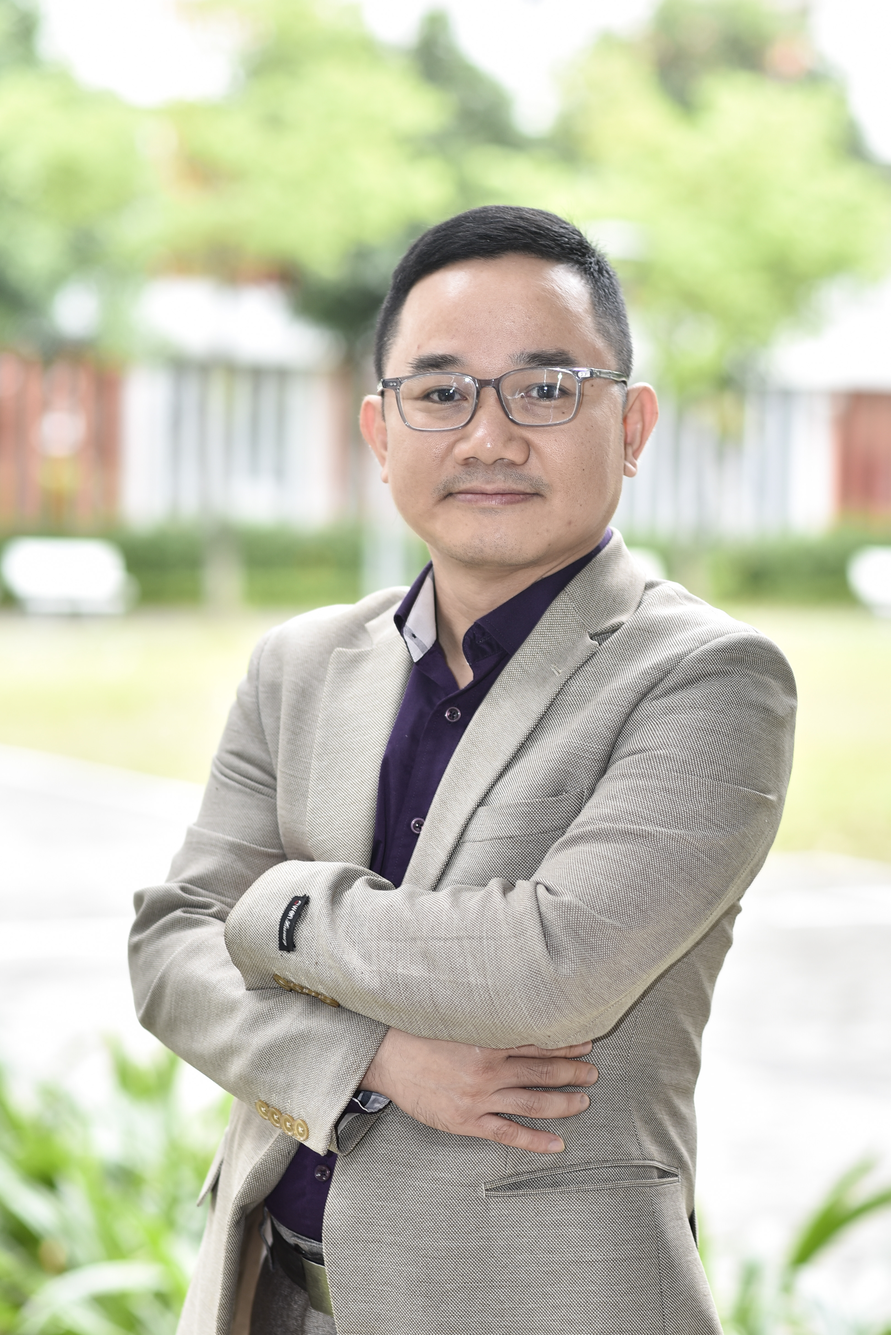
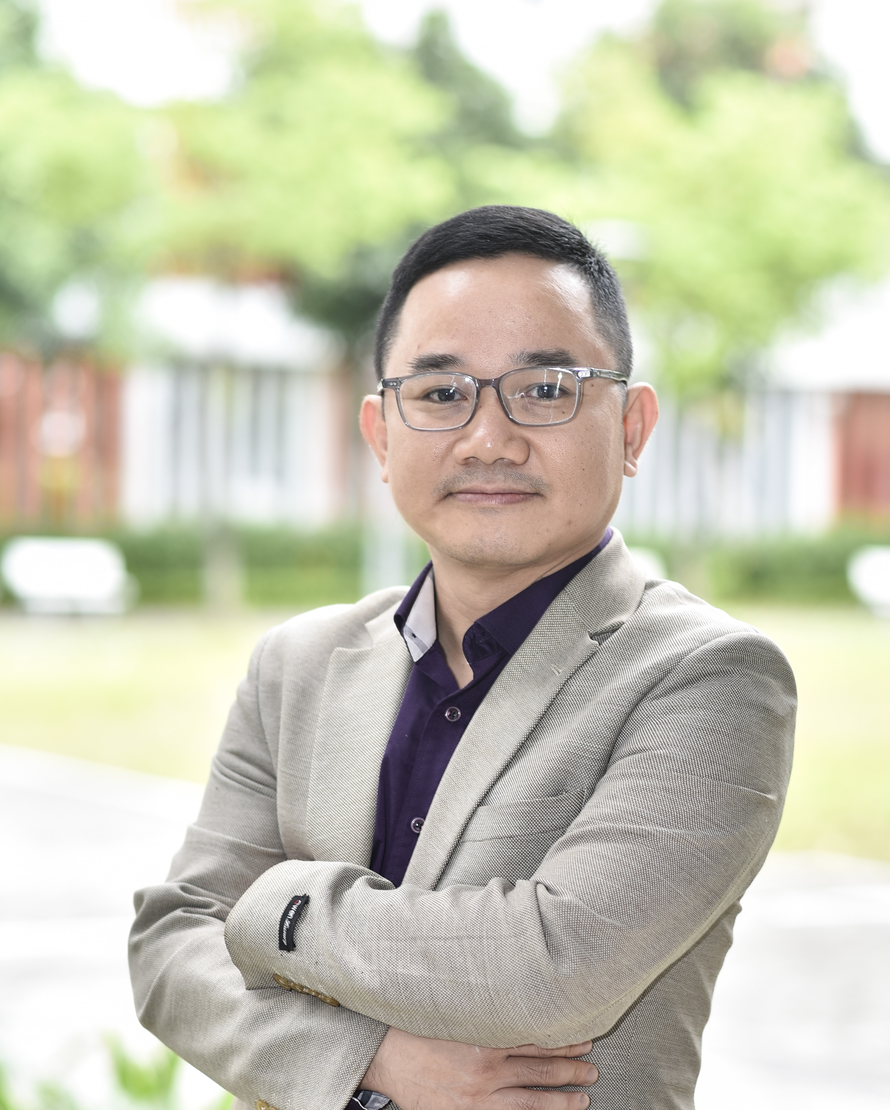
6 commit

diff --git a/index.html b/index.html
@@ -126,7 +126,7 @@
                  href="#"
                  data-name="Prof. Duc-Tan Tran"
                  data-role="Keynote • Phenikaa University"
-                 data-img="assets/imgs/prof1.JPG"
+                 data-img="assets/imgs/profbao.jpg"
                  data-bio='
                    <p><strong>Duc-Tan Tran</strong> is currently a <strong>Professor and Dean</strong> at the Faculty of Electrical and Electronic Engineering, <strong>Phenikaa University</strong>. Prior to joining Phenikaa University, he was an <strong>Associate Professor</strong> at the Faculty of Electronics and Telecommunication, <strong>VNU University of Engineering and Technology (VNU-UET)</strong>, and served as <strong>Vice Dean</strong> from <em>Aug 2016 – May 2019</em>.</p>
                    <p>He has authored <strong>150+ research papers</strong> and received multiple distinctions, including:</p>
@@ -139,7 +139,7 @@
                    <p><strong>Research interests</strong>: representation, processing, analysis, and communication of information embedded in signals and datasets.</p>
                    <p>Prof. Tran actively serves the community as <strong>TPC Co-chair</strong>, <strong>technical program committee member</strong>, <strong>track chair</strong>, <strong>session chair</strong>, and <strong>reviewer</strong> for various international conferences and journals.</p>
                  '>
-                <img src="assets/imgs/prof1.JPG" alt="Ảnh Prof. Duc-Tan Tran">
+                <img src="assets/imgs/profbao.jpg" alt="Ảnh Prof. Duc-Tan Tran">
               </a>
             
               <div class="body">
@@ -162,7 +162,7 @@
                  href="#"
                  data-name="Prof. Duc-Tan Tran"
                  data-role="Keynote • Phenikaa University"
-                 data-img="assets/imgs/prof1.JPG"
+                 data-img="assets/imgs/tsha.jpg"
                  data-bio='
                    <p><strong>Duc-Tan Tran</strong> is currently a <strong>Professor and Dean</strong> at the Faculty of Electrical and Electronic Engineering, <strong>Phenikaa University</strong>. Prior to joining Phenikaa University, he was an <strong>Associate Professor</strong> at the Faculty of Electronics and Telecommunication, <strong>VNU University of Engineering and Technology (VNU-UET)</strong>, and served as <strong>Vice Dean</strong> from <em>Aug 2016 – May 2019</em>.</p>
                    <p>He has authored <strong>150+ research papers</strong> and received multiple distinctions, including:</p>
@@ -175,7 +175,7 @@
                    <p><strong>Research interests</strong>: representation, processing, analysis, and communication of information embedded in signals and datasets.</p>
                    <p>Prof. Tran actively serves the community as <strong>TPC Co-chair</strong>, <strong>technical program committee member</strong>, <strong>track chair</strong>, <strong>session chair</strong>, and <strong>reviewer</strong> for various international conferences and journals.</p>
                  '>
-                <img src="assets/imgs/prof1.JPG" alt="Ảnh Prof. Duc-Tan Tran">
+                <img src="assets/imgs/tsha.jpg" alt="Ảnh Prof. Duc-Tan Tran">
               </a>
             
               <div class="body">
@@ -198,7 +198,7 @@
                  href="#"
                  data-name="Prof. Duc-Tan Tran"
                  data-role="Keynote • Phenikaa University"
-                 data-img="assets/imgs/prof1.JPG"
+                 data-img="assets/imgs/tstrung.jpg"
                  data-bio='
                    <p><strong>Duc-Tan Tran</strong> is currently a <strong>Professor and Dean</strong> at the Faculty of Electrical and Electronic Engineering, <strong>Phenikaa University</strong>. Prior to joining Phenikaa University, he was an <strong>Associate Professor</strong> at the Faculty of Electronics and Telecommunication, <strong>VNU University of Engineering and Technology (VNU-UET)</strong>, and served as <strong>Vice Dean</strong> from <em>Aug 2016 – May 2019</em>.</p>
                    <p>He has authored <strong>150+ research papers</strong> and received multiple distinctions, including:</p>
@@ -211,7 +211,7 @@
                    <p><strong>Research interests</strong>: representation, processing, analysis, and communication of information embedded in signals and datasets.</p>
                    <p>Prof. Tran actively serves the community as <strong>TPC Co-chair</strong>, <strong>technical program committee member</strong>, <strong>track chair</strong>, <strong>session chair</strong>, and <strong>reviewer</strong> for various international conferences and journals.</p>
                  '>
-                <img src="assets/imgs/prof1.JPG" alt="Ảnh Prof. Duc-Tan Tran">
+                <img src="assets/imgs/tstrung.jpg" alt="Ảnh Prof. Duc-Tan Tran">
               </a>
             
               <div class="body">
